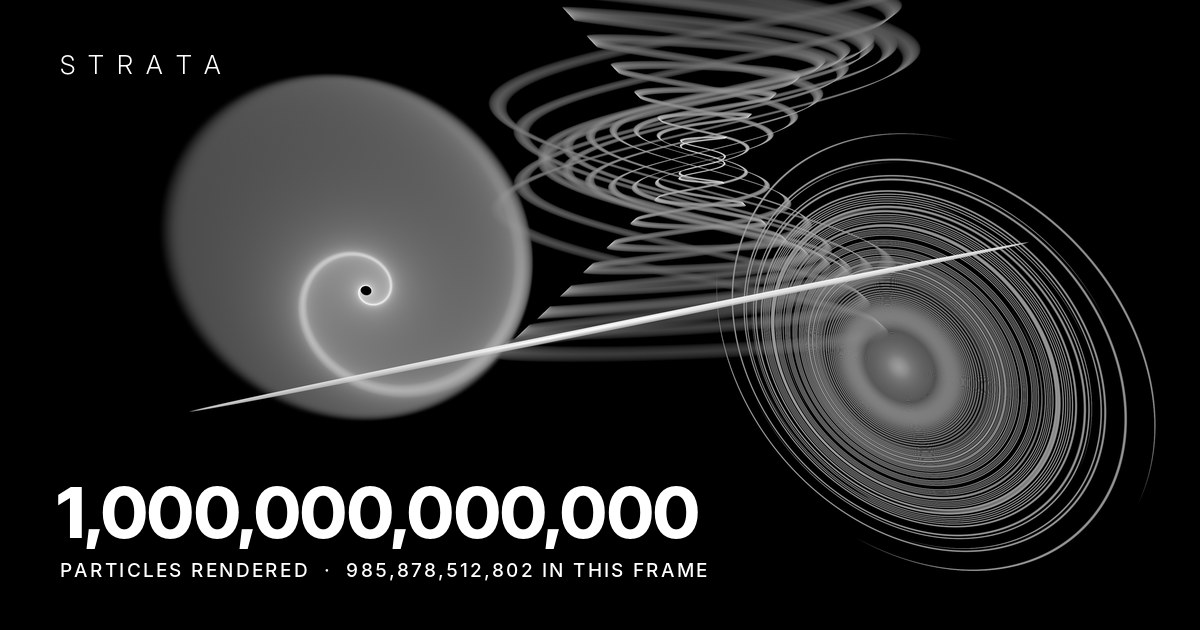
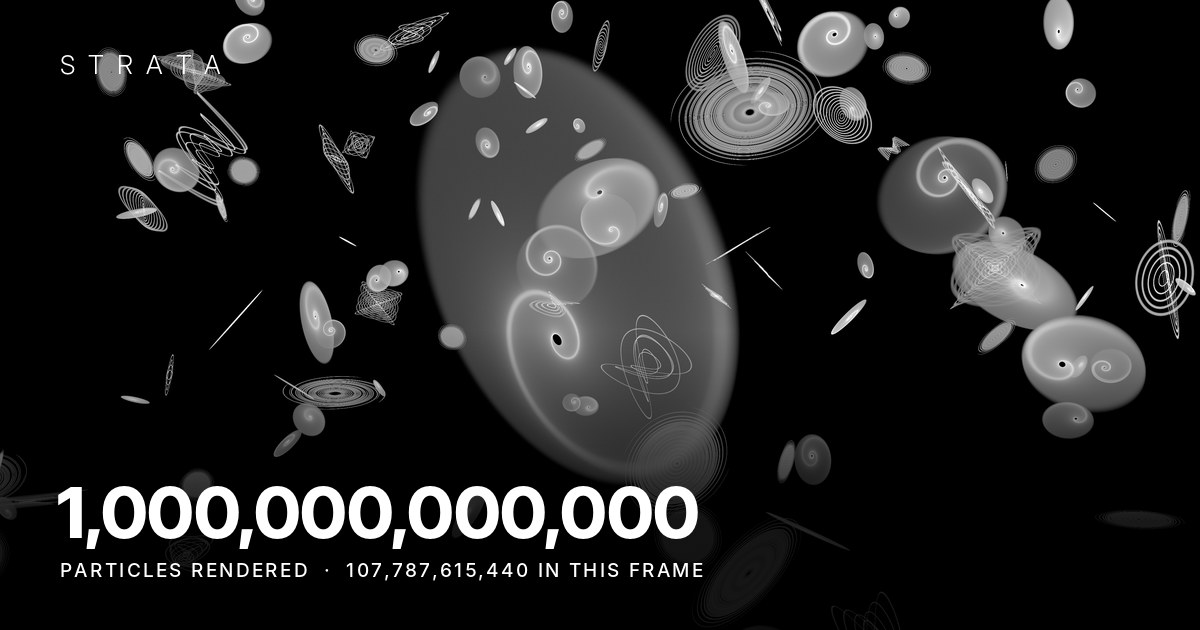
Label compositions A and B as not a trillion distinct particles; move the share card to key2
A and B were rendered on 32-bit keys with stacked identical sheets: at most
~17.2B (A) and ~137B (B) distinct particles. The cluster renders stay 1T
distinct. docs/record now notes the key path and commit per still.

Claude-Session: https://claude.ai/code/session_011cV2cvTjLsZdDNfHny76Bs

diff --git a/src/site/pages.ts b/src/site/pages.ts
@@ -49,14 +49,14 @@ export const SITE = {
   author: { name: "Aptyll", url: "https://github.com/Aptyll" },
   license: "https://opensource.org/license/mit",
   locale: "en_US",
-  /** Made by share/make-card.py from docs/record/trillion-A.png; the numbers on it are that frame's GPU tallies. */
+  /** Made by share/make-card.py from docs/record/trillion-key2-f0.png; the numbers on it are that frame's GPU tallies. */
   card: {
     file: "src/site/share/strata-1t.jpg",
     width: 1200,
     height: 630,
     alt:
-      "One frame of 1,000,000,000,000 particles rendered by Strata, white on black: a spiral disc, " +
-      "a ribbon of looping curves and a sheet of fine rings. 985,878,512,802 of the particles are in the frame.",
+      "One frame of 1,000,000,000,000 particles rendered by Strata, white on black: one large glowing disc " +
+      "in front of hundreds of small spiral and ring sheets. 107,787,615,440 of the particles are in the frame.",
   } satisfies ShareCard,
 };
 

diff --git a/src/site/share/make-card.py b/src/site/share/make-card.py
@@ -71,14 +71,16 @@ def card(frame: str, evaluated: str | None, in_frame: str | None, scrim: bool = 
     return im
 
 
-# The card the site uses. trillion-A.png: 985,878,512,802 of the 1,000,000,000,000
-# evaluated particles land in the frame (docs/record/README.md), so the big number
-# is true of what the picture shows.
-SITE_CARD = dict(frame="trillion-A.png", evaluated="1,000,000,000,000", in_frame="985,878,512,802")
+# The card the site uses. trillion-key2-f0.png: 107,787,615,440 of the 1,000,000,000,000
+# evaluated particles land in the frame (docs/record/README.md). It is a cluster render,
+# so its trillion particles are distinct even on the 32-bit keys it was rendered with.
+# Not trillion-A.png: composition A stacked identical sheets, so on 32-bit keys it held
+# at most about 17.2 billion distinct particles, repeated.
+SITE_CARD = dict(frame="trillion-key2-f0.png", evaluated="1,000,000,000,000", in_frame="107,787,615,440", scrim=True)
 
 VARIANTS = {
     "strata-1t": SITE_CARD,
-    "strata-1t-no-text": dict(frame="trillion-A.png", evaluated=None, in_frame=None),
+    "strata-1t-no-text": dict(frame="trillion-key2-f0.png", evaluated=None, in_frame=None),
     # key1 opens the video. Two digits of its label are hidden behind a sheet, hence "about".
     "strata-1t-wide": dict(frame="trillion-key1-f0.png", evaluated="1,000,000,000,000", in_frame="ABOUT 843 BILLION", scrim=True),
 }

diff --git a/docs/record/README.md b/docs/record/README.md
@@ -15,14 +15,35 @@ seconds on this card when the sheets cover part of the frame, and 172 to 205
 seconds when they fill it (composition A). Count weighting takes about 160 to
 193 seconds.
 
-| frame | view | particles in view |
-| --- | --- | ---: |
-| [trillion-key1-f0.png](trillion-key1-f0.png) | inside the field of sheets, wide | about 843 billion (two digits of the label are hidden behind a sheet) |
-| [trillion-key2-f0.png](trillion-key2-f0.png) | closer, one large Kepler disc in front | 107,787,615,440 |
-| [trillion-A.png](trillion-A.png) | close-up of a few big sheets: a spiral disc, a Lissajous ribbon, a ring sheet | 985,878,512,802 |
-| [trillion-B.png](trillion-B.png) | a column of sheets stacked one above another, seen from the side | 927,901,560,630 |
-| [trillion-C.png](trillion-C.png) | wide shot inside the field, hundreds of small sheets edge to edge | about 31% of the trillion (two digits of the label are hidden behind a sheet) |
-| [trillion-still-f0.png](trillion-still-f0.png) | the first frame: the whole cluster from far away | every sheet is in frame |
+## Distinct particles: read this before using A or B
+
+Every still here was rendered at commit `41e853a` or `c42ceda` (from the
+desktop's git reflog; which of the two is not recorded per still). That is
+before PR #45, so the particle keys were the old **32-bit** `pcg` keys, not
+the 64-bit `particleKey` from `src/stateless/rng.ts`.
+
+- **Cluster renders** (`trillion-still-f0`, `key1`, `key2`, `C`, and
+  `trillion256-K0` and the `k068` clip in the project folder): still a
+  trillion **distinct** particles. Each sheet holds fewer than 2^32 particles,
+  `pcg` is a bijection on 32 bits, and every sheet has its own transform, so
+  no two particles coincide.
+- **Compositions A and B** (`trillion-A`, `trillion-B`, and `trillion256-A`):
+  **not** a trillion distinct particles. They stack coincident sheets with
+  identical parameters, so on 32-bit keys those sheets draw the same
+  particles. A holds at most about **17.2 billion** distinct particles (each
+  repeated about 58 times); B at most about **137 billion** (about 7 times).
+  The 1,000,000,000,000 in their labels is particles evaluated, not distinct
+  particles. Do not use them as trillion frames. They are being re-rendered on
+  64-bit keys and will replace these files.
+
+| frame | view | particles in view | keys | 1T distinct |
+| --- | --- | ---: | --- | --- |
+| [trillion-key1-f0.png](trillion-key1-f0.png) | inside the field of sheets, wide | about 843 billion (two digits of the label are hidden behind a sheet) | 32-bit pcg, `41e853a`/`c42ceda` | yes |
+| [trillion-key2-f0.png](trillion-key2-f0.png) | closer, one large Kepler disc in front | 107,787,615,440 | 32-bit pcg, `41e853a`/`c42ceda` | yes |
+| [trillion-A.png](trillion-A.png) | close-up of a few big sheets: a spiral disc, a Lissajous ribbon, a ring sheet | 985,878,512,802 evaluated positions in frame | 32-bit pcg, `41e853a`/`c42ceda` | **no**: at most ~17.2B distinct |
+| [trillion-B.png](trillion-B.png) | a column of sheets stacked one above another, seen from the side | 927,901,560,630 evaluated positions in frame | 32-bit pcg, `41e853a`/`c42ceda` | **no**: at most ~137B distinct |
+| [trillion-C.png](trillion-C.png) | wide shot inside the field, hundreds of small sheets edge to edge | about 31% of the trillion (two digits of the label are hidden behind a sheet) | 32-bit pcg, `41e853a`/`c42ceda` | yes |
+| [trillion-still-f0.png](trillion-still-f0.png) | the first frame: the whole cluster from far away | every sheet is in frame | 32-bit pcg, `41e853a`/`c42ceda` | yes |
 
 These are 8-bit PNG exports of the developed frames. The particles are
 rendered, not simulated: see "Rendered, not simulated" in the

diff --git a/src/site/README.md b/src/site/README.md
@@ -30,10 +30,12 @@ descriptions 50 to 160, and no clause that calls the trillion "simulated"
 ## The share card
 
 `share/strata-1t.jpg` is the picture chat apps and social sites show next to a
-pasted link. It is a real frame, `docs/record/trillion-A.png`, scaled down
-with only empty rows and columns trimmed, and the two numbers on it are that
-frame's GPU tallies: 1,000,000,000,000 particles evaluated and 985,878,512,802
-landed in the frame. To change it, edit `share/make-card.py` (frame, numbers,
+pasted link. It is a real frame, `docs/record/trillion-key2-f0.png`, scaled
+down with only empty rows and columns trimmed (and the bottom darkened behind
+the type), and the two numbers on it are that frame's GPU tallies:
+1,000,000,000,000 particles evaluated and 107,787,615,440 landed in the frame.
+It used to be `trillion-A.png`, which is not a trillion distinct particles (see
+`docs/record/README.md`). To change it, edit `share/make-card.py` (frame, numbers,
 type) and run it; it needs Python with Pillow and the Inter font.
 
 The published file name contains a hash of the image's bytes

diff --git a/docs/journal/rendering/2026-11-18-07-first-trillion-frames.md b/docs/journal/rendering/2026-11-18-07-first-trillion-frames.md
@@ -58,6 +58,12 @@ burned-in label.
 | `trillion256-K0.png` | the far view again | not reported | | 1,000,000,000,000 | contrast 256 |
 | `trillion-clip-k068.mp4` | 8 frames, the key2 camera with a slow push | about 32 s per frame | 31 B/s | 107,787,615,782 on the first frame, 107,743,038,598 on the last | contrast 256 |
 
+**Correction (added 2026-11-19 02:35 UTC):** A, `trillion256-A` and B were
+rendered on 32-bit keys (before PR #45) with stacked identical sheets, so they
+are **not** a trillion distinct particles: A holds at most about 17.2 billion
+distinct, B about 137 billion. The cluster frames are still 1T distinct. See
+[docs/record/README.md](../../record/README.md#distinct-particles-read-this-before-using-a-or-b).
+
 The first six are in git under [`docs/record/`](../../record/README.md). The
 last three are in the project files only.
 

diff --git a/docs/journal/rendering/2026-11-18-04-particle-keys-and-honest-counting.md b/docs/journal/rendering/2026-11-18-04-particle-keys-and-honest-counting.md
@@ -169,7 +169,7 @@ frames from the RTX 2070.
 
 ![Label of trillion-A.png: in frame 985,878,512,802](images/label-100pct_trillion-A.png)
 
-*Composition A, a close-up: 985,878,512,802 in frame.*
+*Composition A, a close-up: 985,878,512,802 in frame. Correction: A was rendered on 32-bit keys with stacked identical sheets, so it holds at most about 17.2 billion distinct particles, not a trillion ([docs/record](../../record/README.md#distinct-particles-read-this-before-using-a-or-b)).*
 
 ![Label of trillion-key1-f0.png with two digits hidden behind a sheet](images/label-100pct_trillion-key1-f0.png)
 
